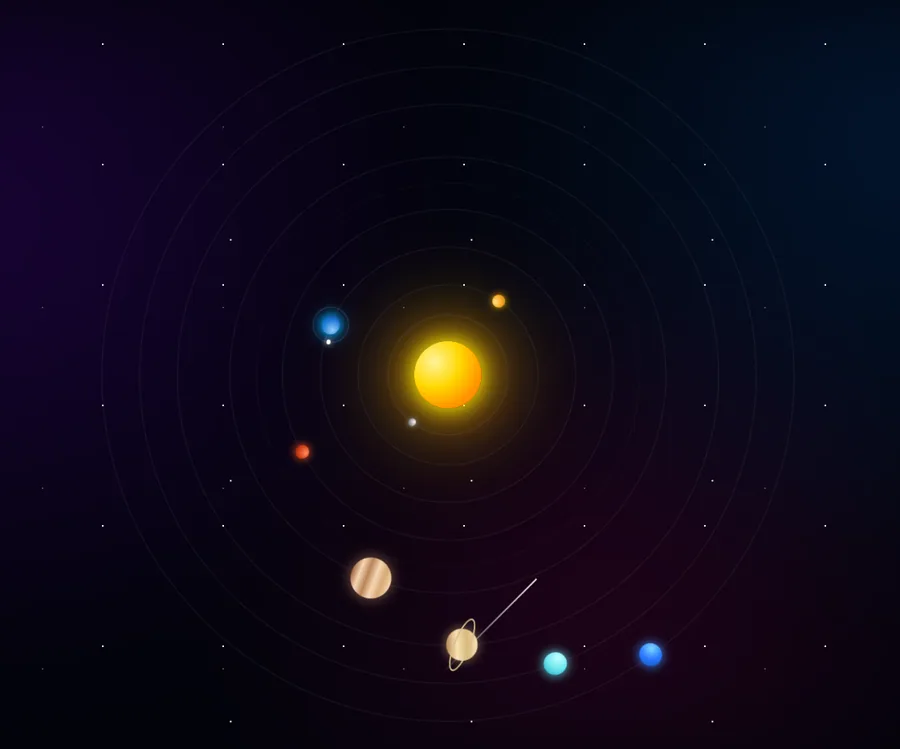
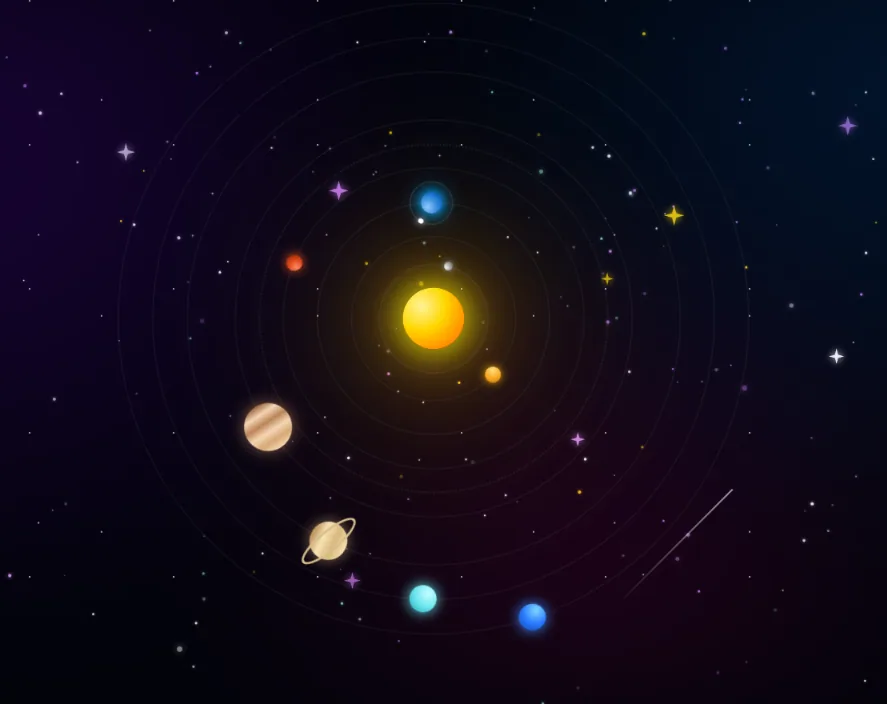
update solar system screenshot; colorful robots-style README

diff --git a/src/lib/imageSize.ts b/src/lib/imageSize.ts
@@ -3,7 +3,7 @@
 export const IMAGE_SIZE: Record<string, { w: number; h: number }> = {
   mediqueue: { w: 935, h: 766 },
   'orbit-ai': { w: 1400, h: 707 },
-  'solar-system': { w: 900, h: 749 },
+  'solar-system': { w: 887, h: 704 },
   'tic-tac-toe': { w: 800, h: 732 },
   'love-calculator': { w: 571, h: 799 },
   'random-quote': { w: 800, h: 779 },

diff --git a/README.md b/README.md
@@ -1,61 +1,81 @@
-# MONI KAUR // PORTFOLIO
+<div align="center">
 
-> IDENTITY ARCHIVE · HUMAN DEVELOPER
-> STATUS ......... ONLINE
-> CLASS .......... 2028
-> BASE ........... JAIPUR, IN
+<h1>
+<span style="color:#22d3ee">MONI</span> <span style="color:#e879f9">KAUR</span>
+</h1>
 
-```
-     \_/
-    ___o___
-   | o   o |
-   |   _   |
-    \ _ _ /
-     |   |
-    /|   |\
-   / |   | \
-  /  |   |  \
-```
+<b><i>HUMAN DEVELOPER · CLASS OF 2028 · JAIPUR</i></b>
 
-## ACCESS PORTAL
+<hr style="height:3px;border:none;border-radius:4px;background:linear-gradient(90deg,#22d3ee,#e879f9,#ff7eb3,#ffd166)"/>
 
-LIVE UPLINK → **[https://kaurmoni0013.github.io/Portfolio/](https://kaurmoni0013.github.io/Portfolio/)**
+<br/>
+
+[![React](https://img.shields.io/badge/React-61DAFB?style=for-the-badge&logo=react&logoColor=000000)](https://react.dev)
+[![TypeScript](https://img.shields.io/badge/TypeScript-3178C6?style=for-the-badge&logo=typescript&logoColor=ffffff)](https://www.typescriptlang.org)
+[![Vite](https://img.shields.io/badge/Vite-646CFF?style=for-the-badge&logo=vite&logoColor=ffffff)](https://vite.dev)
+[![Tailwind CSS](https://img.shields.io/badge/Tailwind_CSS-06B6D4?style=for-the-badge&logo=tailwindcss&logoColor=ffffff)](https://tailwindcss.com)
+[![Framer Motion](https://img.shields.io/badge/Framer_Motion-0055FF?style=for-the-badge&logo=framer&logoColor=ffffff)](https://motion.dev)
+[![GitHub Pages](https://img.shields.io/badge/DEPLOYED_ON-GitHub_Pages-222222?style=for-the-badge&logo=githubpages&logoColor=ffffff)](https://pages.github.com)
+
+<h2>
+<a style="text-decoration:none" href="https://kaurmoni0013.github.io/Portfolio/">
+<span style="color:#ffffff;background:#22d3ee;padding:6px 18px;border-radius:999px;">OPEN PORTFOLIO &nbsp;→&nbsp; kaurmoni0013.github.io/Portfolio</span>
+</a>
+</h2>
+
+</div>
 
 ---
 
-## FILE LOG
+## SYSTEM IDENTITY
 
-- IDENTITY .. MONI KAUR
-- CORE ...... B.TECH COMPUTER SCIENCE & AI
-- BASE ...... ARYA COLLEGE OF ENGINEERING & IT, JAIPUR
-- ERA ....... CLASS OF 2028
+| FIELD | VALUE |
+|---|---|
+| <span style="color:#22d3ee">NAME</span> | Moni Kaur |
+| <span style="color:#e879f9">SPECIALTY</span> | Full-Stack Web Development · UI / UX |
+| <span style="color:#ffd166">EDUCATION</span> | B.Tech Computer Science & AI, Arya College of Engineering & IT |
+| <span style="color:#7ee787">STATUS</span> | <b>ONLINE · OPEN TO WORK</b> |
 
 ## CORE MODULES
 
-| MODULE    | DESIGNATION          | STATUS  |
-|-----------|----------------------|---------|
-| HOME      | SIGNAL ORIGIN        | ONLINE  |
-| ABOUT     | IDENTITY DOSSIER     | ONLINE  |
-| PROJECTS  | MISSION LOGS         | ONLINE  |
-| RESUME    | CREDENTIALS FILE     | ONLINE  |
-| CONTACT   | COMMS CHANNEL        | ONLINE  |
+| MODULE | DESIGNATION | STATUS |
+|---|---|---|
+| <span style="color:#22d3ee">HOME</span> | Signal origin · intro | <b style="color:#7ee787">ONLINE</b> |
+| <span style="color:#e879f9">ABOUT</span> | Identity dossier | <b style="color:#7ee787">ONLINE</b> |
+| <span style="color:#ffd166">PROJECTS</span> | Mission logs | <b style="color:#7ee787">ONLINE</b> |
+| <span style="color:#ff7eb3">RESUME</span> | Credentials file | <b style="color:#7ee787">ONLINE</b> |
+| <span style="color:#7ee787">CONTACT</span> | Comms channel | <b style="color:#7ee787">ONLINE</b> |
 
-## ARCHITECTURE NOTES
+## INTEGRATED STACK
 
-- BUILT WITH ..... VITE + REACT + TYPESCRIPT (STRICT) · TAILWIND 4 · FRAMER MOTION
-- DEPLOYED BY .... GITHUB ACTIONS → GITHUB PAGES
-- OPTIMIZED ...... 60FPS · WCAG AA · WEBP ASSETS · SELF-HOSTED FONTS
-- AVAILABILITY ... STATIC BUILD · SPLIT JS CHUNKS · ZERO-DOWNTIME
+<div align="center">
+
+<span style="color:#22d3ee">■</span> Vite &nbsp; <span style="color:#e879f9">■</span> React 19 &nbsp; <span style="color:#ffd166">■</span> TypeScript (strict) &nbsp; <span style="color:#7ee787">■</span> Tailwind CSS 4 &nbsp; <span style="color:#ff7eb3">■</span> Framer Motion &nbsp; <span style="color:#89c2ff">■</span> Lucide Icons &nbsp; <span style="color:#ff9e64">■</span> Oxlint
+
+</div>
+
+## DEPLOYMENT PIPELINE
+
+- **SOURCE** → GitHub repository
+- **BUILD** → Vite production build (type-checked)
+- **DELIVERY** → GitHub Actions → GitHub Pages
+- **UPTIME** → always-on static site, split JS chunks, no build-size bloat
 
 ## SYSTEM CHECKS // PASS
 
-- [x] FULL-PAGE SCROLL HOLDS A LOCKED 60FPS
-- [x] EVERY ROUTE LINTED AND AXE-CLEAN
-- [x] IMAGES SERVED AS WEBP WITH RESERVED LAYOUT SPACE
-- [x] MOTION IS EARNED, NEVER DECORATIVE
+- [x] Locked 60fps on full-page scroll
+- [x] WCAG AA colour contrast
+- [x] WebP images with reserved layout space
+- [x] Accessible dialog menu with focus trap
+- [x] Every route linted and axe-clean
 
 ---
 
-## END OF FILE
+<div align="center">
 
-TRANSCRIPT CLOSED. ALL SYSTEMS NOMINAL.
+<hr style="height:3px;border:none;border-radius:4px;background:linear-gradient(90deg,#ffd166,#ff7eb3,#e879f9,#22d3ee)"/>
+
+<b><span style="color:#888;">ALL SYSTEMS NOMINAL ·</span></b>
+<a style="text-decoration:none" href="https://github.com/kaurmoni0013"><span style="color:#22d3ee">github.com/kaurmoni0013</span></a>
+
+</div>
